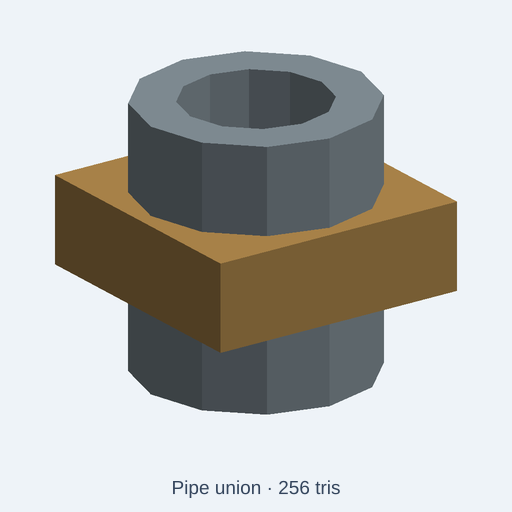
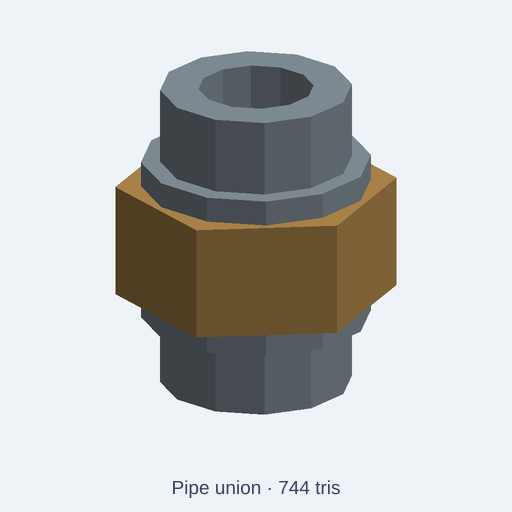
fix(catalog): model detachable pipe union with real hex nut and gasket

diff --git a/tests/integration/catalog/pipeUnionFidelity.test.ts b/tests/integration/catalog/pipeUnionFidelity.test.ts
@@ -1,0 +1,90 @@
+// SPDX-License-Identifier: MIT
+// A union needs detachable tailpieces and a nut with a real continuous bore.
+// Verify the exported BREP-derived GLB, not its title, knobs or PNG metadata.
+import { beforeAll, describe, expect, it } from 'vitest';
+import { resolve } from 'node:path';
+import { readFileSync } from 'node:fs';
+import { initOcct } from '../../../src/kernel/backends/occt/occtBackend';
+import { buildCatalogAssetWithGlb } from '../../../src/agent/catalog/buildCatalog';
+import { runAndExport } from '../../../src/agent/script-runtime/export';
+import { glbTriangles, type SoftTriangle } from '../../../scripts/lib/glbSoftwareRender';
+
+const root = resolve(import.meta.dirname, '../../..');
+const file = resolve(root, 'catalog/kits/standard-components/pipe-union.kcad.ts');
+
+type Gltf = {
+  nodes: Array<{ name?: string; mesh?: number }>;
+  meshes: Array<{ primitives: Array<{ attributes: { POSITION: number } }> }>;
+  accessors: Array<{ min?: number[]; max?: number[] }>;
+};
+function bounds(glb: Uint8Array | Buffer) {
+  const b = Buffer.from(glb);
+  expect(b.toString('ascii', 0, 4)).toBe('glTF');
+  const gltf = JSON.parse(b.subarray(20, 20 + b.readUInt32LE(12)).toString('utf8')) as Gltf;
+  const out = new Map<string, { min: number[]; max: number[] }>();
+  for (const n of gltf.nodes) {
+    if (!n.name || n.mesh === undefined) continue;
+    const a = gltf.accessors[gltf.meshes[n.mesh]!.primitives[0]!.attributes.POSITION]!;
+    if (a.min && a.max) out.set(n.name, { min: a.min, max: a.max });
+  }
+  return out;
+}
+// Test the actual open bore by casting an upward ray onto the triangles.
+function verticalHit(tris: SoftTriangle[], px: number, pz: number) {
+  for (const triangle of tris) {
+    const [[ax,az], [bx,bz], [cx,cz]] = triangle.v.map(v => [v[0], v[2]]);
+    const d = (bz-cz)*(ax-cx) + (cx-bx)*(az-cz);
+    if (Math.abs(d) < 1e-12) continue;
+    const a = ((bz-cz)*(px-cx) + (cx-bx)*(pz-cz))/d;
+    const b = ((cz-az)*(px-cx) + (ax-cx)*(pz-cz))/d;
+    if (a >= -1e-6 && b >= -1e-6 && 1-a-b >= -1e-6) return true;
+  }
+  return false;
+}
+function verify(glb: Uint8Array | Buffer, size: number, tris: SoftTriangle[]) {
+  const parts = bounds(glb);
+  expect([...parts.keys()].sort()).toEqual([
+    'coupling-hex-nut','face-gasket','inlet-tailpiece','outlet-tailpiece',
+  ]);
+  const get = (name: string) => parts.get(name)!;
+  const range = (name: string, axis: number, lo: number, hi: number) => {
+    expect(get(name).min[axis], name).toBeCloseTo(lo*size, 2);
+    expect(get(name).max[axis], name).toBeCloseTo(hi*size, 2);
+  };
+  // Opposite tailpieces do not overlap axially; a 1 mm gasket separates them.
+  range('inlet-tailpiece',2,0,22.5);
+  range('face-gasket',2,22.5,23.5);
+  range('outlet-tailpiece',2,23.5,49);
+  range('coupling-hex-nut',2,15,33);
+  // Six-sided central nut, not the original square block.
+  range('coupling-hex-nut',0,-22*Math.sqrt(3)/2,22*Math.sqrt(3)/2);
+  range('coupling-hex-nut',1,-22,22);
+  expect(verticalHit(tris,0,0)).toBe(false); // through bore remains unobstructed
+  expect(verticalHit(tris,0.011*size,0)).toBe(true); // solid annular wall exists
+}
+
+beforeAll(async () => { await initOcct(); });
+describe('CC0 pipe union scene identity and geometry', () => {
+  it('has four actual separate bodies, open bore and a six-sided coupling nut', async () => {
+    const { asset, glb } = await buildCatalogAssetWithGlb(root, 'catalog/kits/standard-components/pipe-union.kcad.ts');
+    expect(asset.category).toBe('attachment');
+    expect(asset.description).toMatch(/illustrative CC0 low-poly/i);
+    expect(asset.description).toMatch(/not verified manufacturing details/i);
+    expect(asset.stats.minUpM).toBeCloseTo(0,6);
+    expect(asset.stats.triangles).toBeLessThanOrEqual(asset.triangleBudget);
+    const triangles = await glbTriangles(glb);
+    expect(triangles.length).toBeGreaterThan(500);
+    verify(glb,1,triangles);
+  }, 30000);
+  it('retains distinct interfaces for both size limits', async () => {
+    const source = readFileSync(file,'utf8');
+    for (const [name, scale] of [['compact',0.75],['large',1.25]] as const) {
+      const code = source.replace("param('size', 'standard'",`param('size', '${name}'`);
+      expect(code).not.toBe(source);
+      const result=await runAndExport({code,fileName:'pipe-union.kcad.ts',scriptDir:resolve(file,'..'),
+        format:'glb',options:{format:'glb',style:'lowpoly',lowpoly:{maxTriangles:800}}});
+      expect(result.diagnostics.filter(d=>d.severity==='error')).toEqual([]);
+      verify(result.bytes,scale,await glbTriangles(result.bytes));
+    }
+  },30000);
+});

diff --git a/catalog/kits/standard-components/pipe-union.kcad.ts b/catalog/kits/standard-components/pipe-union.kcad.ts
@@ -1,30 +1,56 @@
-// Distinctive geometry: Compact union fitting with two hollow sockets and a broad central hex-like nut body
+// SPDX-License-Identifier: CC0-1.0
+// Four separate parts of an illustrative straight pipe union: inlet and
+// outlet tailpieces, the removable hex coupling nut, and a gasket captured
+// between the opposed ends. Threads and sealing fits are NOT modeled; this
+// is low-poly scene geometry, not a pressure-rated or fabrication-ready part.
 meta({
   name: 'pipe-union',
   license: 'CC0-1.0',
   title: 'Pipe union',
-  description: 'Compact union fitting with two hollow sockets and a broad central hex-like nut body Knobs: model size, steel, brass.',
-  tags: ['pipe union', 'union fitting', 'pipe connector', 'plumbing'],
+  description: 'Illustrative CC0 low-poly straight pipe union: two detachable tubular tailpieces with external shoulders, a hollow six-flat coupling nut that captures them, and a separate sealing gasket between faces. The central fluid passage is open. Three scaled scene sizes; threaded engagement, pressure rating and leak-tight fit are not verified manufacturing details.',
+  tags: ['pipe union', 'union fitting', 'pipe connector', 'plumbing', 'low poly', 'scene prop', 'CC0'],
   kit: 'standard-components',
   category: 'attachment',
   origin: 'base',
   compat: ['mechanical', 'industrial', 'workshop', 'assembly'],
-  triangleBudget: 340,
+  triangleBudget: 800,
 });
-
-const size = param('size', 'standard', { choices: ['compact', 'standard', 'large'], label: 'Model size' });
-const steel = param('steel', '#85929a', { label: 'Steel' });
-const brass = param('brass', '#b28a4d', { label: 'Brass' });
+const size = param('size', 'standard', { choices: ['compact', 'standard', 'large'], label: 'Illustrative overall scale' });
+const steel = param('steel', '#85929a', { label: 'Steel tailpieces' });
+const brass = param('brass', '#b28a4d', { label: 'Brass coupling nut' });
+const gasketColor = param('gasketColor', '#353d41', { label: 'Sealing gasket' });
 presets({
   dark: { steel: '#3e484e', brass: '#725938' },
   brass: { steel: '#646f75', brass: '#c0944d' },
-  weathered: { steel: '#665b4d', brass: '#8c734d' }
+  weathered: { steel: '#665b4d', brass: '#8c734d' },
 });
-
 const s = size.value === 'compact' ? 0.75 : size.value === 'large' ? 1.25 : 1;
-const block = (x: number, y: number, z: number, w: number, d: number, h: number) => box(w, d, h).translate(x, y, z);
+const tube = (lo: number, hi: number, ro: number, ri = 9) =>
+  cylinder((hi-lo)*s, ro*s, 12).translate(0,0,lo*s)
+    .subtract(cylinder((hi-lo+2)*s, ri*s, 12).translate(0,0,(lo-1)*s));
+
+// The lower tailpiece has a full-size pipe, a raised retaining shoulder and
+// a smaller spigot which fits inside the nut without intersecting its bore.
+const inlet = tube(0, 15, 15).union(tube(11, 15, 18))
+  .union(tube(14, 22.5, 12.5));
+// The upper tailpiece presents the mating spigot to the face gasket. The
+// shoulders remain outside the nut so the collar captures each tailpiece.
+const outlet = tube(23.5, 34, 12.5).union(tube(33, 37, 18))
+  .union(tube(36, 49, 15));
+const hexPoints = Array.from({ length: 6 }, (_, i) => {
+  const angle = (i + 0.5) * Math.PI / 3;
+  return [22 * Math.cos(angle)*s, 22 * Math.sin(angle)*s];
+});
+// Across-flats ~= 38.1 mm at default scale. Hollow: neither a solid block
+// nor a squared-off sleeve masquerading as a pipe union.
+const nut = extrudePolygon(hexPoints, 18*s).translate(0,0,15*s)
+  .subtract(cylinder(20*s, 13.4*s, 12).translate(0,0,14*s));
+// Replaceable, visible in an exploded view; outer radius stays below the
+// coupling nut bore and the central 18 mm fluid passage is uninterrupted.
+const gasket = tube(22.5, 23.5, 12.7, 9.05);
 const a = assembly('pipe-union');
-a.part('socket-a',cylinder(12*s,16*s,12).subtract(cylinder(14*s,10*s,12).translate(0,0,-s)).color(steel));
-a.part('nut',block(-18*s,-18*s,12*s,36*s,36*s,12*s).subtract(cylinder(14*s,10*s,12).translate(0,0,11*s)).color(brass));
-a.part('socket-b',cylinder(12*s,16*s,12).subtract(cylinder(14*s,10*s,12).translate(0,0,-s)).translate(0,0,24*s).color(steel));
+a.part('inlet-tailpiece', inlet.color(steel));
+a.part('coupling-hex-nut', nut.color(brass));
+a.part('face-gasket', gasket.color(gasketColor));
+a.part('outlet-tailpiece', outlet.color(steel));
 return a.model();
